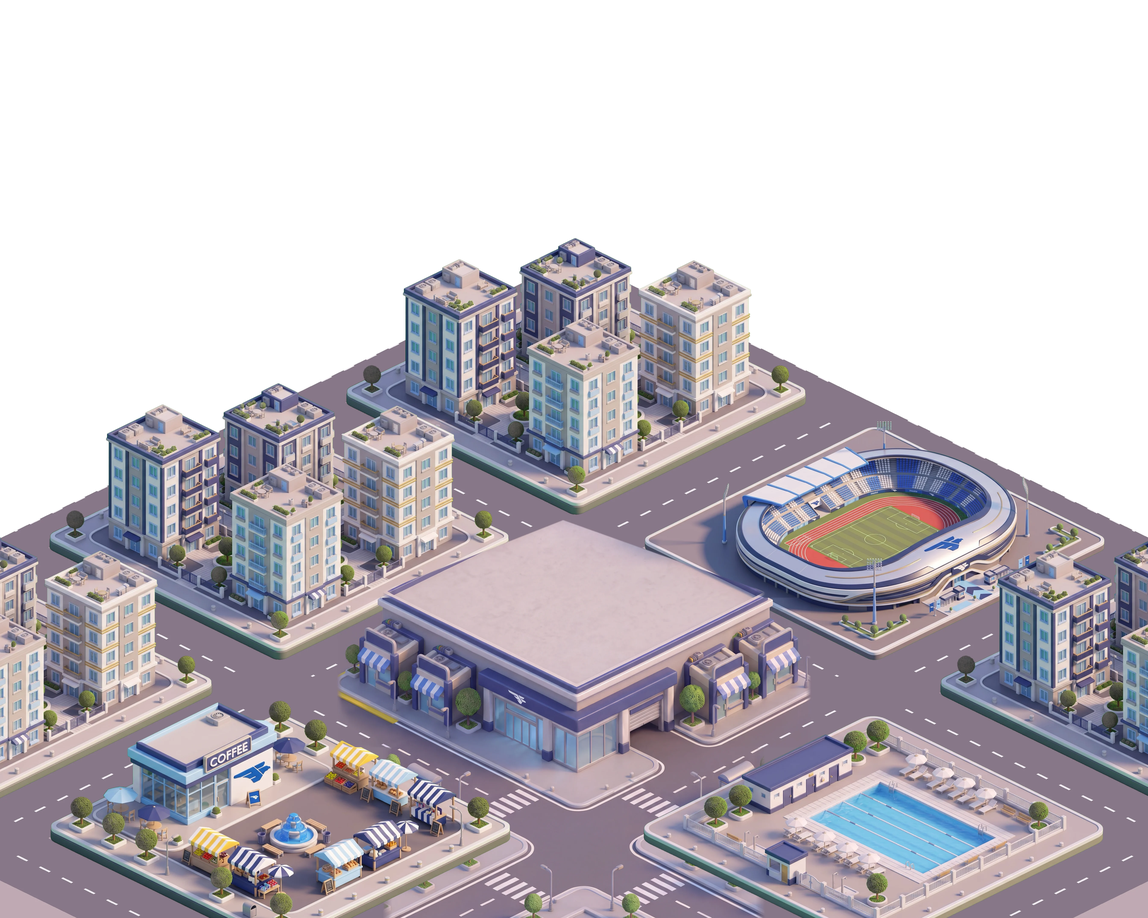
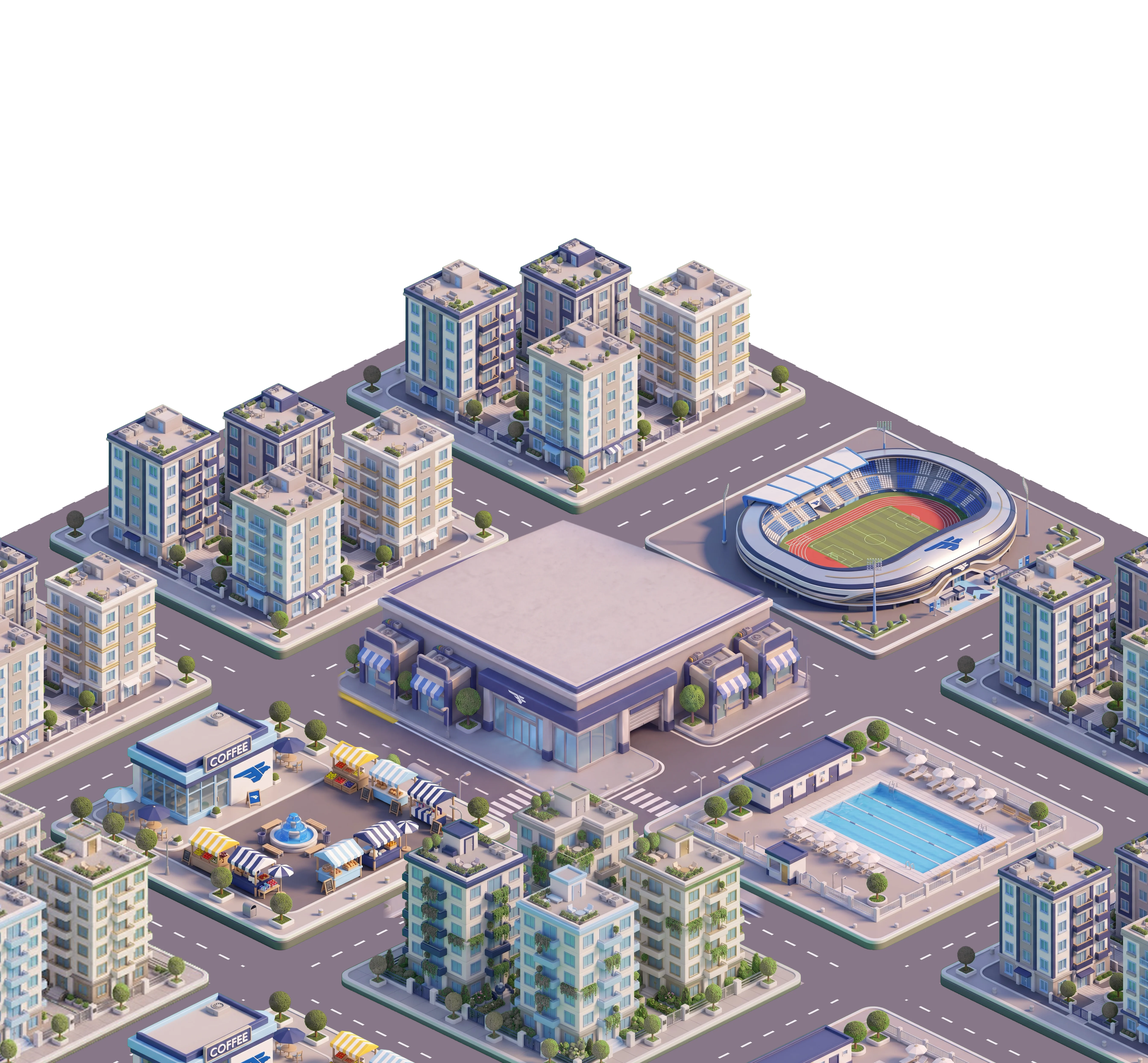
Base: a row of blocks below the crossroads, the van's new route, street under the dock
The city gets one more row (the two new apartment plots and the apartments again),
so the market and the pool can be scrolled to. The van comes in along the road
between the stadium and the pool, turns down past the garage and leaves along the
new road at the bottom. The strip iPhone paints under the dock is asphalt-coloured.

Claude-Session: https://claude.ai/code/session_01MKPtPqT9cLfraEnRb8y9iB

diff --git a/js/app/city3d.js b/js/app/city3d.js
@@ -28,8 +28,15 @@ export const SIGN_AT = [2940, 3548];             // on the pavement, left of the
 export const SIGN_HEIGHT = 320;                  // px tall on screen
 // the truck's road: in from the bottom right, round the corner, to the garage door; then it
 // turns round and drives off down the same road, out at the bottom
-const ROUTE_IN = [[4100, 4620], [2700, 3935], [3060, 3752]];
-const ROUTE_OUT = [[3060, 3752], [2960, 3740], [2840, 3820], [2700, 3935], [1700, 4430]];
+// The street grid (tools/compose-city.py) in px of the city picture: block (a, b) has its centre
+// at C0 + (a − b) P across and (a + b) SLOPE P down; the roads run along a = ±½ and b = ±½.
+const GRID = { c0: [2691.5, 3245.5], P: 1391 };
+const lat = (a, b) => [GRID.c0[0] + (a - b) * GRID.P, GRID.c0[1] + (a + b) * SLOPE * GRID.P];
+// in from the right along the road between the stadium and the pool (b = −½), round the corner
+// by the stadium onto the road past the garage (a = ½), stopping at its door; then on down that
+// road and out at the bottom. Each leg keeps to the lane on the tower's side.
+const ROUTE_IN = [lat(1.6, -0.45), lat(0.45, -0.45), lat(0.45, 0.24)];
+const ROUTE_OUT = [lat(0.45, 0.24), lat(0.45, 2.3)];
 const TRUCK_LEN = 250;                    // px along the road
 const SPEED = 150;                        // px of the city picture per second
 const WAIT = 8;                           // s at the garage door

diff --git a/js/core/diorama.js b/js/core/diorama.js
@@ -17,14 +17,14 @@ export const ENV = {
   roomWidth: 0.86, // the room's art width, as a share of the terrain's
 };
 // The city (docs/CITY.md, "The layered city"): one picture of the whole city, the street floor
-// in the middle (icons/City/layers/city.webp, half the 10752 × 8600 master), and the MOSKE tower
+// in the middle (icons/City/layers/city.webp, half the 10752 × 9960 master), and the MOSKE tower
 // stacked on it from two pieces cut by tools/cut-tower.py: floor N is the cap (the roof slab and
 // the top storey) with N - 1 office storeys under it, standing on the street floor's lobby; the
 // street floor (N = 0) is the picture as it is. A room stands on its floor's slab: the slab is
 // made for a 16 × 16 floor, so today's 8 × 8 rooms take half its width, in the middle of it.
 export const FLOOR_OF = { locker: 0, gym: 1, bike: 2, run: 3, pool: 4 };
 export const CITY = {
-  src: 'icons/City/layers/city.webp', w: 5376, h: 4300,
+  src: 'icons/City/layers/city.webp', w: 5376, h: 4980,
   k: 0.5,                         // the app picture is half the master (px of the master × k)
   plateAt: [3584, 4072],          // the street floor's top-left corner in the master
   step: 449.01,                   // one storey, in px of the street floor (icons/City/layers/tower.json)

diff --git a/css/styles.css b/css/styles.css
@@ -2766,5 +2766,8 @@ body.rm .cl-route-on { transition: none; }
 .dg-clouds > div { position: absolute; left: -15%; width: 130%; top: 0; will-change: transform; }
 .dg-clouds img { position: absolute; left: 0; top: 0; width: 100%; height: auto; }
 .dg-clouds img + img { transform: scaleX(-1); }
+/* on the base iPhone paints the strip under the page in the page's colour: there, the asphalt of
+   the city's roads, so the street seems to carry on under the dock */
+html:has(body.pg-mode .dg-screen), body.pg-mode:has(.dg-screen) { background: #877688; }
 /* on the base the city runs down behind the dock, so the dock's band is see-through there */
 body.pg-mode:has(.dg-screen) .tabs { background: transparent; }

diff --git a/sw.js b/sw.js
@@ -1,7 +1,7 @@
 // sw.js — offline-first service worker. Precaches the app shell and serves
 // cache-first, falling back to the network (and to index.html for navigations).
 
-const CACHE = 'triquest-v98';
+const CACHE = 'triquest-v99';
 const ASSETS = [
   './',
   './index.html',

diff --git a/tools/compose-city.py b/tools/compose-city.py
@@ -35,7 +35,7 @@ cut_art = importlib.util.module_from_spec(spec)
 spec.loader.exec_module(cut_art)
 
 SLOPE = 0.489
-CANVAS = (10752, 8600)
+CANVAS = (10752, 9960)            # one row of blocks more below the street floor: scroll down to it
 PLATE_AT = (3584, 4072)          # the plate's top-left corner on the canvas (bottom centre)
 # on the plate (px of plate.png): a point on each of the two roads that leave it, measured on
 # their lane dashes, and where the tower's block's front corner is
@@ -62,6 +62,13 @@ PLOTS = [
     ((1, -1), 'apartments'),      # level with the tower, far right
     ((0, 1), 'market'),           # in front, left
     ((1, 0), 'pool'),             # in front, right
+    # the row below the crossroads
+    ((1, 1), 'apartments-green'), # straight below
+    ((0, 2), 'apartments-small'), # below, far left
+    ((2, 0), 'apartments'),       # below, far right
+    # the row under that: only its tops show at the bottom edge, so low plots
+    ((1, 2), 'market'),
+    ((2, 1), 'pool'),
 ]
 
 
@@ -137,7 +144,8 @@ def plot_sprite(path, k):
     low = np.array([np.where(m[:, i])[0].max() if m[:, i].any() else -1 for i in xs])
     ok = low > 0
     fx = int(xs[ok][np.argmax(low[ok])]); x0, x1 = xs[ok].min(), xs[ok].max()
-    L = ok & (xs < fx - 120) & (xs > x0 + 120); R = ok & (xs > fx + 120) & (xs < x1 - 120)
+    mg = max(8, round(0.05 * im.width))       # keep clear of the corners: 5% of the picture
+    L = ok & (xs < fx - mg) & (xs > x0 + mg); R = ok & (xs > fx + mg) & (xs < x1 - mg)
     slope = (np.polyfit(xs[L], low[L], 1)[0] - np.polyfit(xs[R], low[R], 1)[0]) / 2
     sx = (2 * BLOCK * k) / (x1 - x0)
     sy = sx * SLOPE / slope
@@ -234,7 +242,8 @@ def main():
     for (i, j), name in order:
         if i + j > tower_row and not drawn_front:
             paste(canvas, front_im, *at); drawn_front = True
-        spr, (fx, fy) = plot_sprite(os.path.join(src, f'{name}.png'), k)
+        path = next((os.path.join(src, f'{name}.{e}') for e in ('png', 'webp', 'jpg') if os.path.exists(os.path.join(src, f'{name}.{e}'))), None)
+        spr, (fx, fy) = plot_sprite(path, k)
         cx, cy = block_centre(c0, pitch, i, j)
         corner = (cx * k, (cy + SLOPE * BLOCK) * k)       # the block's front corner
         paste(canvas, spr, corner[0] - fx, corner[1] - fy)

diff --git a/docs/CITY.md b/docs/CITY.md
@@ -173,9 +173,19 @@ What's on them:
   - Its white panel counts down to the next delivery: every shop order is a workshop job with a finish time (`js/core/deliveries.js`).
   - Tapping it opens the list of deliveries on their way (`js/app/delivery-view.js`), as beige cards like the Journal's.
 - **The MOSKE truck** (`models/city/truck.glb`) brings whichever delivery is ending (`truckAt`).
-  - It drives in from the bottom right in the last few seconds, round the corner to the garage door, and arrives as the countdown ends.
-  - It waits there 8 s, turns round and drives off down the same road, out at the bottom.
-  - The route is `ROUTE_IN` and `ROUTE_OUT`, in px of the city picture.
+  - It drives in from the right along the road between the stadium and the pool, turns at the stadium's crossing onto the road past the garage, and arrives at the door as the countdown ends.
+  - It waits there 8 s, then carries on down the same road and out at the bottom left.
+  - The route is `ROUTE_IN` and `ROUTE_OUT`, given as street-grid coordinates (`lat(a, b)`).
 - **Reduced motion:** the clouds stand still and the truck only appears parked.
 
 **Models:** export GLB from Meshy, then run `npx @gltf-transform/cli optimize in.glb out.glb --texture-compress webp --texture-size 1024 --compress meshopt`. The five models went from 42 MB to under 0.9 MB.
+
+### The row below
+
+The city has one more row of blocks below the street floor's crossroads, so you can scroll down to the market and the pool. The canvas is now 10752 × 9960.
+- Straight below: `apartments-green`.
+- Far left: `apartments-small`.
+- Far right: `apartments`.
+- Under them, only their tops show at the bottom edge: the market and the pool again.
+
+On the base the page's own colour is the roads' asphalt (#877688), so the strip iPhone paints under the dock reads as street.
